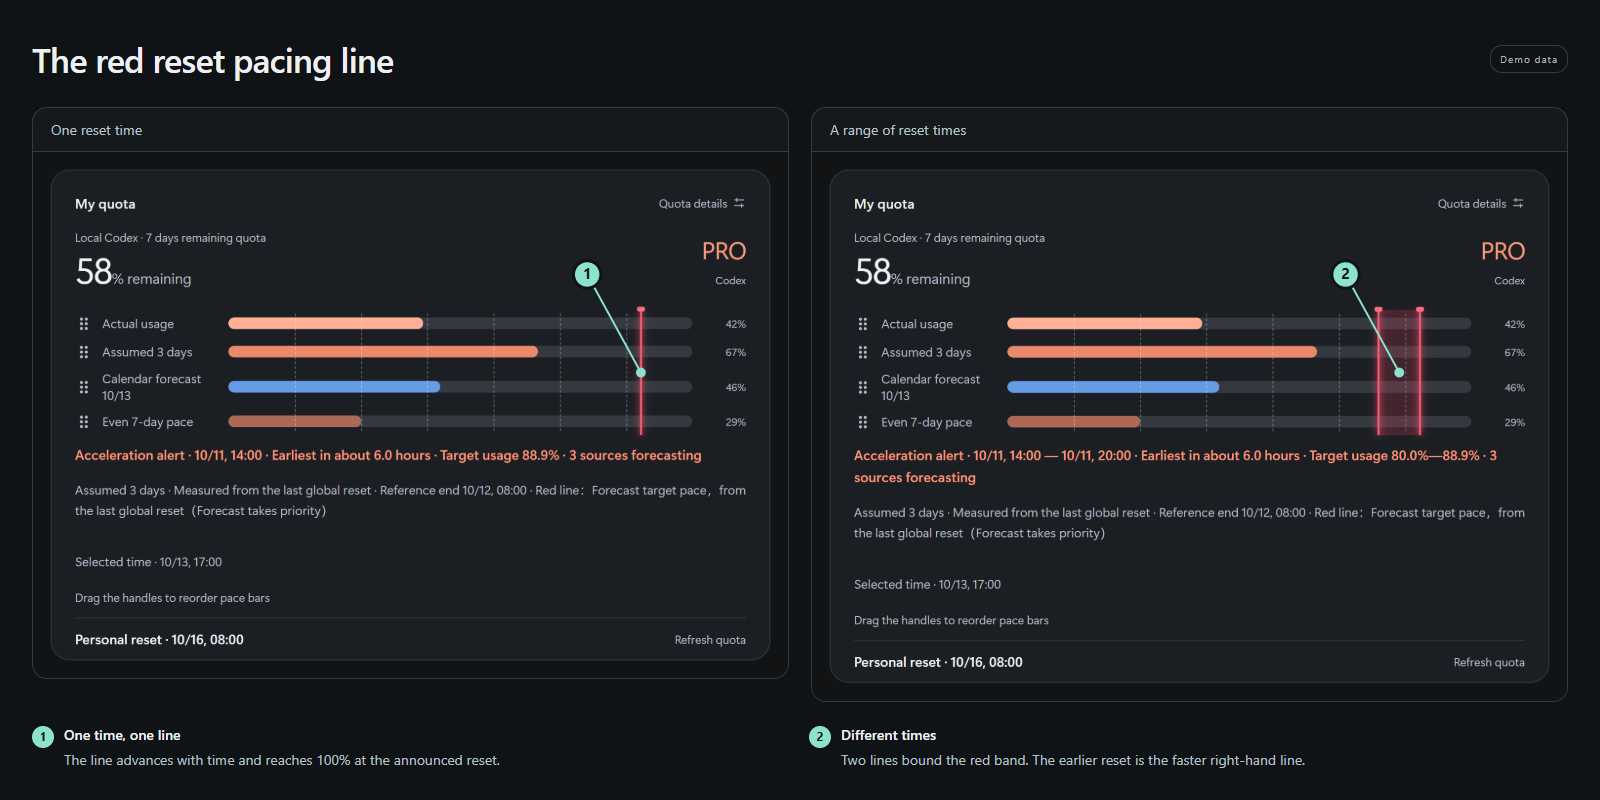
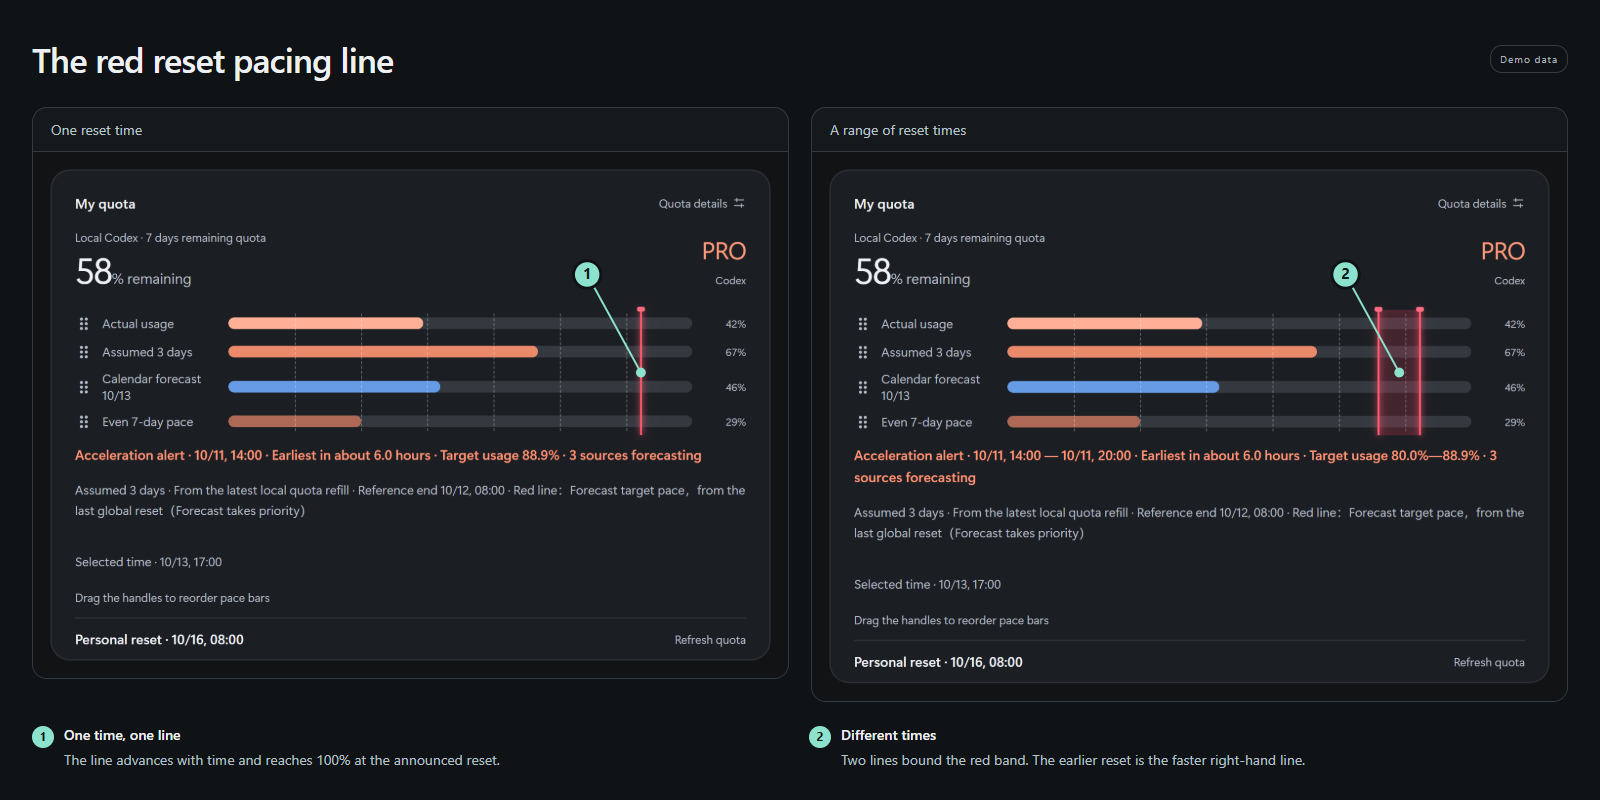
Anchor assumed pacing to confirmed local quota refills

Changed region(s): [[0.0312, 0.5938, 0.4688, 0.6562], [0.5312, 0.625, 0.9688, 0.6875]]

diff --git a/app/ui/pace-timing.js b/app/ui/pace-timing.js
@@ -19,7 +19,15 @@
   if(!Number.isFinite(anchor)||!Number.isFinite(deadline)||deadline<=anchor)return null;
   return Math.max(0,Math.min(100,(now-anchor)/(deadline-anchor)*100));
  }
- function hypotheticalPace(consensus,days=3,now=Date.now(),history=[]){
+ function actualLocalResetAnchor(quota,localReset,now){
+  if(quota?.source!=='local-codex'||localReset?.kind!=='quota-reset'||!quota.bucketId||!['primary','secondary'].includes(quota.key))return null;
+  if(localReset.bucketId!==quota.bucketId||localReset.windowKey!==quota.key||localReset.resetsAt!==quota.resetsAt)return null;
+  const end=Date.parse(quota.resetsAt),duration=quota.durationMins*60000,observed=Date.parse(localReset.observedAt),at=end-duration;
+  if(!Number.isFinite(quota.durationMins)||!Number.isFinite(duration)||duration<=0||!Number.isFinite(at)||at>now||!Number.isFinite(observed)||observed<at||observed>=end||observed>now)return null;
+  // A persisted refill proves this cycle even if a later network read fails.
+  return {at,origin:'local'};
+ }
+ function hypotheticalPace(consensus,days=3,now=Date.now(),history=[],options={}){
   if(!Number.isFinite(days)||days<=0||!Number.isFinite(now))return {available:false,days};
   const candidates=[];
   const current=Date.parse(consensus?.at);
@@ -32,10 +40,10 @@
    const proof=(row.sources||[]).filter(s=>!s.evidenceOnly&&s.family&&s.family!=='unverified-feed'&&completionPost(s)&&post&&new URL(s.url).pathname.match(/\/status\/(\d+)/)[1]===post&&Number.isFinite(Date.parse(s.at))&&Math.abs(Date.parse(s.at)-at)<=120000);
    if(new Set(proof.map(s=>s.family)).size>=2)candidates.push({at,origin:'history'});
   }
-  const chosen=candidates.sort((a,b)=>b.at-a.at)[0];
+  const chosen=actualLocalResetAnchor(options?.quota,options?.localReset,now)||candidates.sort((a,b)=>b.at-a.at)[0];
   if(!chosen)return {available:false,days};
   const elapsed=now-chosen.at,duration=days*86400000;
-  return {available:true,days,anchor:new Date(chosen.at).toISOString(),end:new Date(chosen.at+duration).toISOString(),elapsedHours:elapsed/3600000,progress:Math.min(1,elapsed/duration),overdue:elapsed>=duration};
+  return {available:true,days,origin:chosen.origin,anchor:new Date(chosen.at).toISOString(),end:new Date(chosen.at+duration).toISOString(),elapsedHours:elapsed/3600000,progress:Math.min(1,elapsed/duration),overdue:elapsed>=duration};
  }
  function calendarPace(target,now=Date.now()){
   const anchor=Date.parse(target?.anchor),end=Date.parse(target?.at);

diff --git a/app/ui/renderer.js b/app/ui/renderer.js
@@ -186,14 +186,14 @@ function renderCalendarPace(now=Date.now()){
  $('calendar-clear').disabled=!pace.available;
 }
 function renderHypothetical(now=Date.now()) {
- const days=state.settings.hypotheticalDays||3,pace=PaceTiming.hypotheticalPace(state.consensus,days,now,state.history);
+ const days=state.settings.hypotheticalDays||3,pace=PaceTiming.hypotheticalPace(state.consensus,days,now,state.history,{quota:state.quotaDisplay,localReset:state.localReset});
  const at=Date.parse(pace.anchor),known=pace.available;
  const progress=known&&state.settings.hypotheticalEnabled!==false?pace.progress:null;
  $('hypothetical-days-label').textContent=dayLabel(days);
  $('hypothetical-fill').style.width=`${(progress??0)*100}%`;
  $('hypothetical-track').setAttribute('aria-valuenow',String(Math.round((progress??0)*100)));
  $('hypothetical-percent').textContent=progress===null?'—':`${Math.round(progress*100)}%`;
- $('hypothetical-note').textContent=state.settings.hypotheticalEnabled===false?'天数假设已清除':known?progress>=1?'假设周期已到期 · 等待实际重置':`假设 ${dayLabel(days)} 天 · 从最近全局重置起算 · 参考到期 ${full(new Date(at+days*86400000).toISOString())}`:'等待已核对的全局重置，以显示假设节奏';
+ $('hypothetical-note').textContent=state.settings.hypotheticalEnabled===false?'天数假设已清除':known?progress>=1?'假设周期已到期 · 等待实际重置':`假设 ${dayLabel(days)} 天 · ${pace.origin==='local'?'从本机最近补充起算':'从最近全局重置起算'} · 参考到期 ${full(new Date(at+days*86400000).toISOString())}`:'等待已核对的全局重置，以显示假设节奏';
 }
 function renderForecastWarning(now=Date.now()) {
  const w=PaceTiming.warning(state.sources,state.quotaDisplay,state.consensus,state.settings.hypotheticalDays||3,now,state.localReset);

diff --git a/app/ui/i18n.js b/app/ui/i18n.js
@@ -1,6 +1,7 @@
 (function(root,factory){const api=factory();if(typeof module==='object'&&module.exports)module.exports=api;else root.DashboardI18n=api;})(globalThis,()=>{
  'use strict';
  const phrases={
+ '从本机最近补充起算':'From the latest local quota refill',
  '通知已关闭':'Notifications off','时区':'Time zone','默认北京时间':'Default: Beijing time','时区无效':'Invalid time zone',
  '此时区没有这个整点，请选择其他小时':'This hour does not exist in this time zone. Choose another hour.',
  '过去6周 · 未来1周 · ':'Past 6 weeks · Next week · ','小时（':'Hour (',

diff --git a/.github/RELEASE_NOTES.md b/.github/RELEASE_NOTES.md
@@ -1,16 +1,7 @@
-## Codex 重置预测看板 2.3.0
+## Codex 重置预测看板 2.3.1
 
-- 日历按月份分开展示，格内信息居中；今天使用蓝色边框和蓝色日期圆圈，支持清除日期假设。
-- “假设 X 天”和日历指定时间分别显示为独立横条，两个假设可分别清除，四条横条均可拖动排序。
-- 校正历史重复计数：同轮观察与完成合并，回顾和限定套餐修复单独标注，保留原帖及各站时间。
-- 顶栏固定，滚动时仍可查看信源状态、刷新和打开设置。
-
-- 新增时区设置，默认北京时间；看板、日历及系统通知随所选时区换算。
+- “假设 X 天”改为从本机最近一次实际补充起算，修复补充后仍沿用旧全局起点的问题。自定义天数、日历指定时间和排序保持独立。
 
 ## English
 
-- The calendar is grouped by month with centered dates and times. Today has a blue border and date circle; calendar targets can be cleared.
-- The assumed X-day cycle and calendar target have separate pace bars. Clear either assumption and drag to reorder all four bars.
-- Corrected duplicate history counts by merging observations with the same reset completion. Recaps and plan-specific fixes are listed separately, with original posts and source times retained.
-- The title bar stays visible while scrolling, keeping source status, refresh and Settings within reach.
-- Adds time zone settings, defaulting to Beijing time. Dashboard dates, the calendar and Windows notifications use the selected zone.
+- The assumed X-day pace now starts from the latest confirmed local quota refill, fixing progress that kept using an older global reset. Custom durations, calendar targets and bar order remain independent.

diff --git a/AGENTS.md b/AGENTS.md
@@ -38,4 +38,4 @@ For a custom installation, pass `-InstallDir` with its absolute directory. Perso
 
 For source changes, run the project's unit, privacy, interface, language and onboarding checks. Build the Windows release, verify the packaged runtime and deployment report, then publish through the release workflow. Use isolated profiles for tests. Preserve installed user data and avoid sending native test notifications.
 
-Maintainer changes are installed locally after verification. Queue reviewed updates for publication at 00:00 Beijing time, at most once per day and only when updates exist. Do not push main, tags or releases immediately after edits. This schedule applies to publishing new versions; installing an already published release remains immediate.
+Maintainer changes are installed locally after verification. Only after a reviewed update is ready, schedule a single publication at the next 00:00 Beijing time, at most once per day. Do not create recurring checks or alarms when no update is pending. After that publication, leave no recurring publication schedule. Do not push main, tags or releases immediately after edits. Installing an already published release remains immediate.

diff --git a/README.md b/README.md
@@ -44,6 +44,8 @@ Routine mode shows your quota in green. A timed automatic-reset announcement for
 
 Four bars show actual usage, pacing for an assumed X-day reset cycle, pacing toward a calendar-selected time, and even usage across your personal cycle. The default is 3 days; click the label to change it. Set the calendar target separately, clear either assumption, and drag a handle to reorder the bars.
 
+The assumed X-day pace starts from your latest confirmed local quota refill. Custom durations, calendar targets and bar order remain independent.
+
 ## The red reset pacing line
 
 ![One reset time on the left; a time range on the right.](docs/assets/feature-forecast.png)
